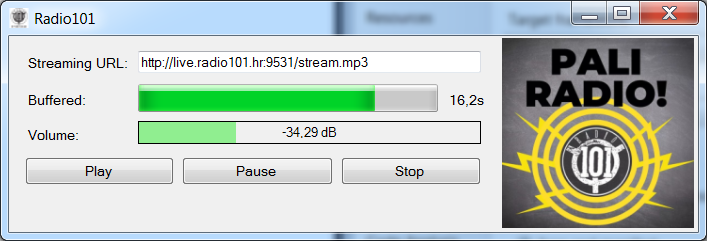
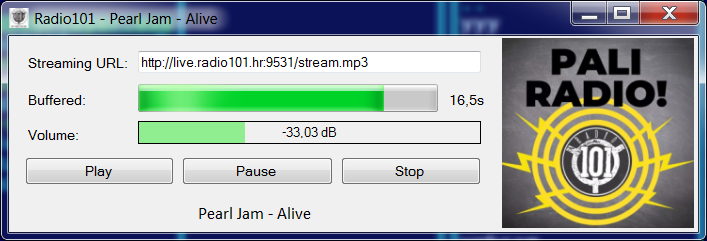
Add Shoutcast info

diff --git a/Radio101/ReadFullyStream.cs b/Radio101/ReadFullyStream.cs
@@ -1,5 +1,6 @@
 using System;
 using System.IO;
+using System.Collections.Generic;
 
 namespace NAudioDemo.Mp3StreamingDemo
 {
@@ -11,11 +12,23 @@ namespace NAudioDemo.Mp3StreamingDemo
         private int readAheadLength;
         private int readAheadOffset;
 
-        public ReadFullyStream(Stream sourceStream)
+        private int icyMetaData = 0;
+        private byte[] icyDataByteArray;
+        public string icyData = "";
+        public EventHandler OnIcyData = null;
+
+        public ReadFullyStream(Stream sourceStream) : this(sourceStream, 0)
+        {
+        }
+
+        public ReadFullyStream(Stream sourceStream, int icyMetaData)
         {
             this.sourceStream = sourceStream;
-            readAheadBuffer = new byte[4096];
+            this.icyMetaData = icyMetaData;
+            readAheadBuffer = new byte[4096 + icyMetaData];
+            icyDataByteArray = new byte[4096];
         }
+
         public override bool CanRead
         {
             get { return true; }
@@ -53,7 +66,6 @@ namespace NAudioDemo.Mp3StreamingDemo
             }
         }
 
-
         public override int Read(byte[] buffer, int offset, int count)
         {
             int bytesRead = 0;
@@ -71,7 +83,34 @@ namespace NAudioDemo.Mp3StreamingDemo
                 else
                 {
                     readAheadOffset = 0;
-                    readAheadLength = sourceStream.Read(readAheadBuffer, 0, readAheadBuffer.Length);
+                    if (this.icyMetaData > 0)
+                    {
+                        int toRead = icyMetaData + 1;
+                        int r = 0;
+
+                        while(r != toRead)
+                            r += sourceStream.Read(readAheadBuffer, r, toRead - r);
+
+                        readAheadLength = icyMetaData;
+                        int icyLen = 16 * readAheadBuffer[icyMetaData];
+                        if (icyLen > 0)
+                        {
+                            toRead = icyLen;
+                            if(this.icyDataByteArray.Length < toRead)
+                                this.icyDataByteArray = new byte[toRead];
+                            r = 0;
+
+                            while (r != toRead)
+                                r += sourceStream.Read(icyDataByteArray, r, toRead - r);
+
+                            this.icyData = System.Text.Encoding.Default.GetString(this.icyDataByteArray);
+                            System.Diagnostics.Debug.WriteLine(icyData);
+                            if (this.OnIcyData != null)
+                                this.OnIcyData(this, EventArgs.Empty);
+                        }
+                    }
+                    else
+                        readAheadLength = sourceStream.Read(readAheadBuffer, 0, readAheadBuffer.Length);
                     //Debug.WriteLine(String.Format("Read {0} bytes (requested {1})", readAheadLength, readAheadBuffer.Length));
                     if (readAheadLength == 0)
                     {

diff --git a/Radio101/MP3StreamingPanel.cs b/Radio101/MP3StreamingPanel.cs
@@ -5,6 +5,8 @@ using System.Net;
 using System.Threading;
 using System.Windows.Forms;
 using NAudio.Wave;
+using System.Collections.Generic;
+using System.Text.RegularExpressions;
 
 namespace NAudioDemo.Mp3StreamingDemo
 {
@@ -22,6 +24,8 @@ namespace NAudioDemo.Mp3StreamingDemo
         public string url { get { return textBoxStreamingUrl.Text; } set { textBoxStreamingUrl.Text = value; } }
         public void StopStream() { this.buttonStop_Click(this, null); }
         public void PlayStream() { this.buttonPlay_Click(this, null); }
+        public EventHandler OnIcyData = null;
+
 
         public Mp3StreamingPanel()
         {
@@ -59,15 +63,29 @@ namespace NAudioDemo.Mp3StreamingDemo
             }
         }
 
+
+        private Dictionary<string, string> responseHdr;
+        public string StreamTitle;
+
         private void StreamMp3(object state)
         {
             fullyDownloaded = false;
             var url = (string)state;
             webRequest = (HttpWebRequest)WebRequest.Create(url);
+            webRequest.Headers.Add("Icy-MetaData", "1");
+            webRequest.UserAgent = "Radio101 player";
+
             HttpWebResponse resp;
+            int icyMetaInt = 0;
+
             try
             {
                 resp = (HttpWebResponse)webRequest.GetResponse();
+                icyMetaInt = Convert.ToInt32(resp.Headers["Icy-MetaInt"] ?? "0");
+                
+                responseHdr = new Dictionary<string, string>();
+                foreach (string k in resp.Headers.Keys)
+                    this.responseHdr[k] = resp.Headers[k];
             }
             catch(WebException e)
             {
@@ -84,7 +102,14 @@ namespace NAudioDemo.Mp3StreamingDemo
             {
                 using (var responseStream = resp.GetResponseStream())
                 {
-                    var readFullyStream = new ReadFullyStream(responseStream);
+                    var readFullyStream = new ReadFullyStream(responseStream, icyMetaInt);
+
+                    readFullyStream.OnIcyData += (s, e) => { 
+                                this.StreamTitle = Regex.Match(readFullyStream.icyData, "(StreamTitle=')(.*)(';)").Groups[2].Value.Trim();
+                                if (this.OnIcyData != null) 
+                                    this.OnIcyData(s, e);
+                            };
+
                     do
                     {
                         if (IsBufferNearlyFull)

diff --git a/Radio101/Form1.Designer.cs b/Radio101/Form1.Designer.cs
@@ -30,6 +30,7 @@
         {
             System.ComponentModel.ComponentResourceManager resources = new System.ComponentModel.ComponentResourceManager(typeof(Form1));
             this.pictureBox1 = new System.Windows.Forms.PictureBox();
+            this.lblStreamInfo = new System.Windows.Forms.Label();
             ((System.ComponentModel.ISupportInitialize)(this.pictureBox1)).BeginInit();
             this.SuspendLayout();
             // 
@@ -46,12 +47,25 @@
             this.pictureBox1.TabIndex = 0;
             this.pictureBox1.TabStop = false;
             // 
+            // lblStreamInfo
+            // 
+            this.lblStreamInfo.Anchor = ((System.Windows.Forms.AnchorStyles)(((System.Windows.Forms.AnchorStyles.Bottom | System.Windows.Forms.AnchorStyles.Left) 
+            | System.Windows.Forms.AnchorStyles.Right)));
+            this.lblStreamInfo.Font = new System.Drawing.Font("Calibri", 10.2F, System.Drawing.FontStyle.Regular, System.Drawing.GraphicsUnit.Point, ((byte)(0)));
+            this.lblStreamInfo.Location = new System.Drawing.Point(9, 161);
+            this.lblStreamInfo.Name = "lblStreamInfo";
+            this.lblStreamInfo.Size = new System.Drawing.Size(476, 32);
+            this.lblStreamInfo.TabIndex = 1;
+            this.lblStreamInfo.Text = "lblStreamInfo";
+            this.lblStreamInfo.TextAlign = System.Drawing.ContentAlignment.MiddleCenter;
+            // 
             // Form1
             // 
             this.AutoScaleDimensions = new System.Drawing.SizeF(8F, 16F);
             this.AutoScaleMode = System.Windows.Forms.AutoScaleMode.Font;
             this.BackgroundImageLayout = System.Windows.Forms.ImageLayout.Stretch;
             this.ClientSize = new System.Drawing.Size(689, 196);
+            this.Controls.Add(this.lblStreamInfo);
             this.Controls.Add(this.pictureBox1);
             this.FormBorderStyle = System.Windows.Forms.FormBorderStyle.FixedSingle;
             this.Icon = ((System.Drawing.Icon)(resources.GetObject("$this.Icon")));
@@ -66,6 +80,7 @@
         #endregion
 
         private System.Windows.Forms.PictureBox pictureBox1;
+        private System.Windows.Forms.Label lblStreamInfo;
 
     }
 }

diff --git a/Radio101/Form1.cs b/Radio101/Form1.cs
@@ -25,6 +25,11 @@ namespace Radio101
             player.Top = 0;
             player.Left = 0;
             player.Visible = true;
+            player.OnIcyData += (s, e) => { this.Invoke(new MethodInvoker(delegate { 
+                lblStreamInfo.Text = player.StreamTitle;
+                this.Text = "Radio101 - " + player.StreamTitle; 
+            }));  };
+
             this.Controls.Add(player);
         }
 
